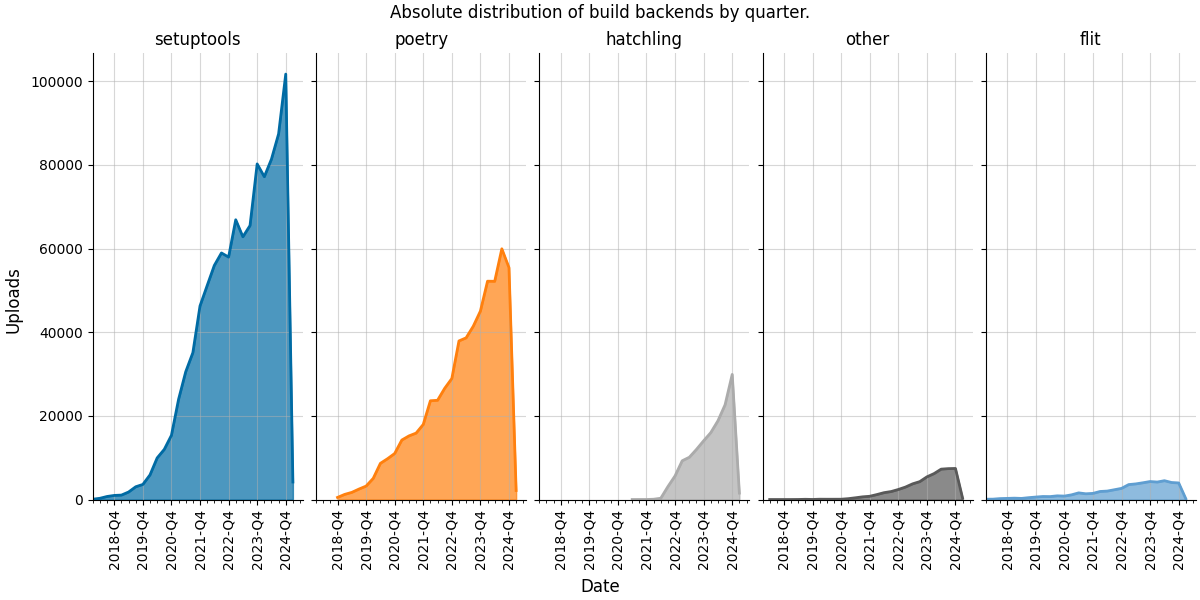
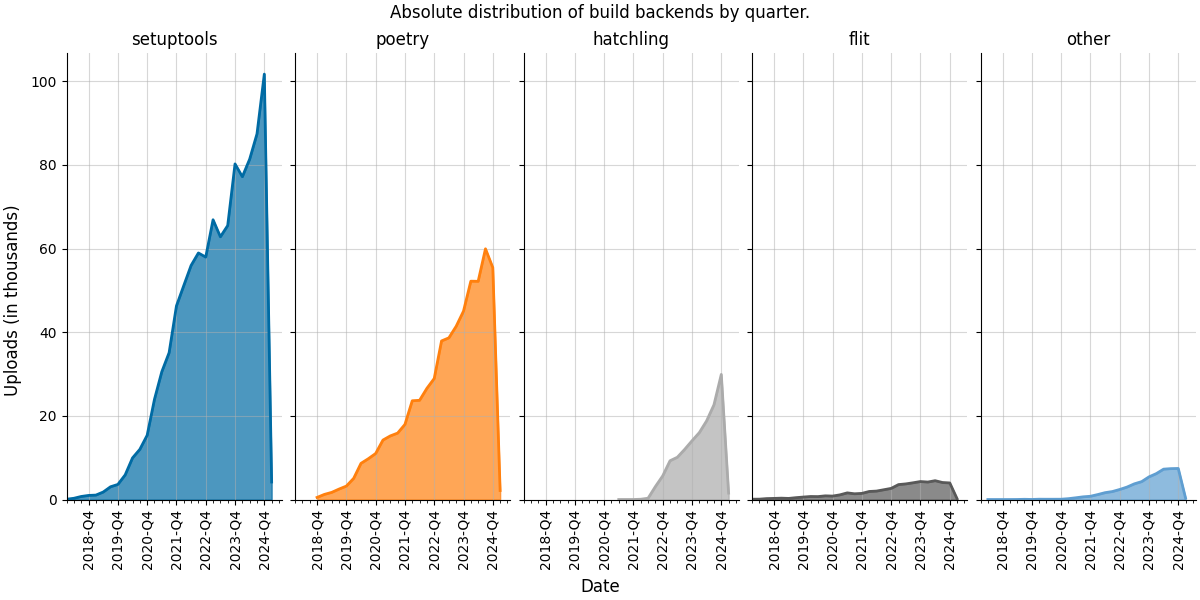
move other to the end, shorten abs numbers by 1000

diff --git a/main.py b/main.py
@@ -183,6 +183,12 @@ def analyze():
         .select('backend').to_series()
     )
 
+    # move 'other' to the end
+    order = order.to_list()
+    if 'other' in order:
+        order.remove('other')
+        order.append('other')
+
     results = results.with_columns(
         pl.col('uploaded_on')
         .dt.truncate('3mo')
@@ -237,7 +243,7 @@ def analyze():
         color = plt.rcParams['axes.prop_cycle'].by_key()['color'][i]
         axes[i].plot(
             grouped.filter(pl.col('backend') == backend)['uploaded_on'],
-            grouped.filter(pl.col('backend') == backend)['count'],
+            grouped.filter(pl.col('backend') == backend)['count'] / 1000,
             label=backend,
             color=color,
         )
@@ -245,7 +251,7 @@ def analyze():
         axes[i].fill_between(
             grouped.filter(pl.col('backend') == backend)['uploaded_on'],
             0,
-            grouped.filter(pl.col('backend') == backend)['count'],
+            grouped.filter(pl.col('backend') == backend)['count'] / 1000,
             label=backend,
             color=color,
             alpha=0.7,
@@ -261,7 +267,7 @@ def analyze():
     fig.suptitle('Absolute distribution of build backends by quarter.')
     fig.autofmt_xdate(rotation=90, ha='center')
     fig.supxlabel('Date')
-    fig.supylabel('Uploads')
+    fig.supylabel('Uploads (in thousands)')
 
     plt.savefig('absolute.png')
 
